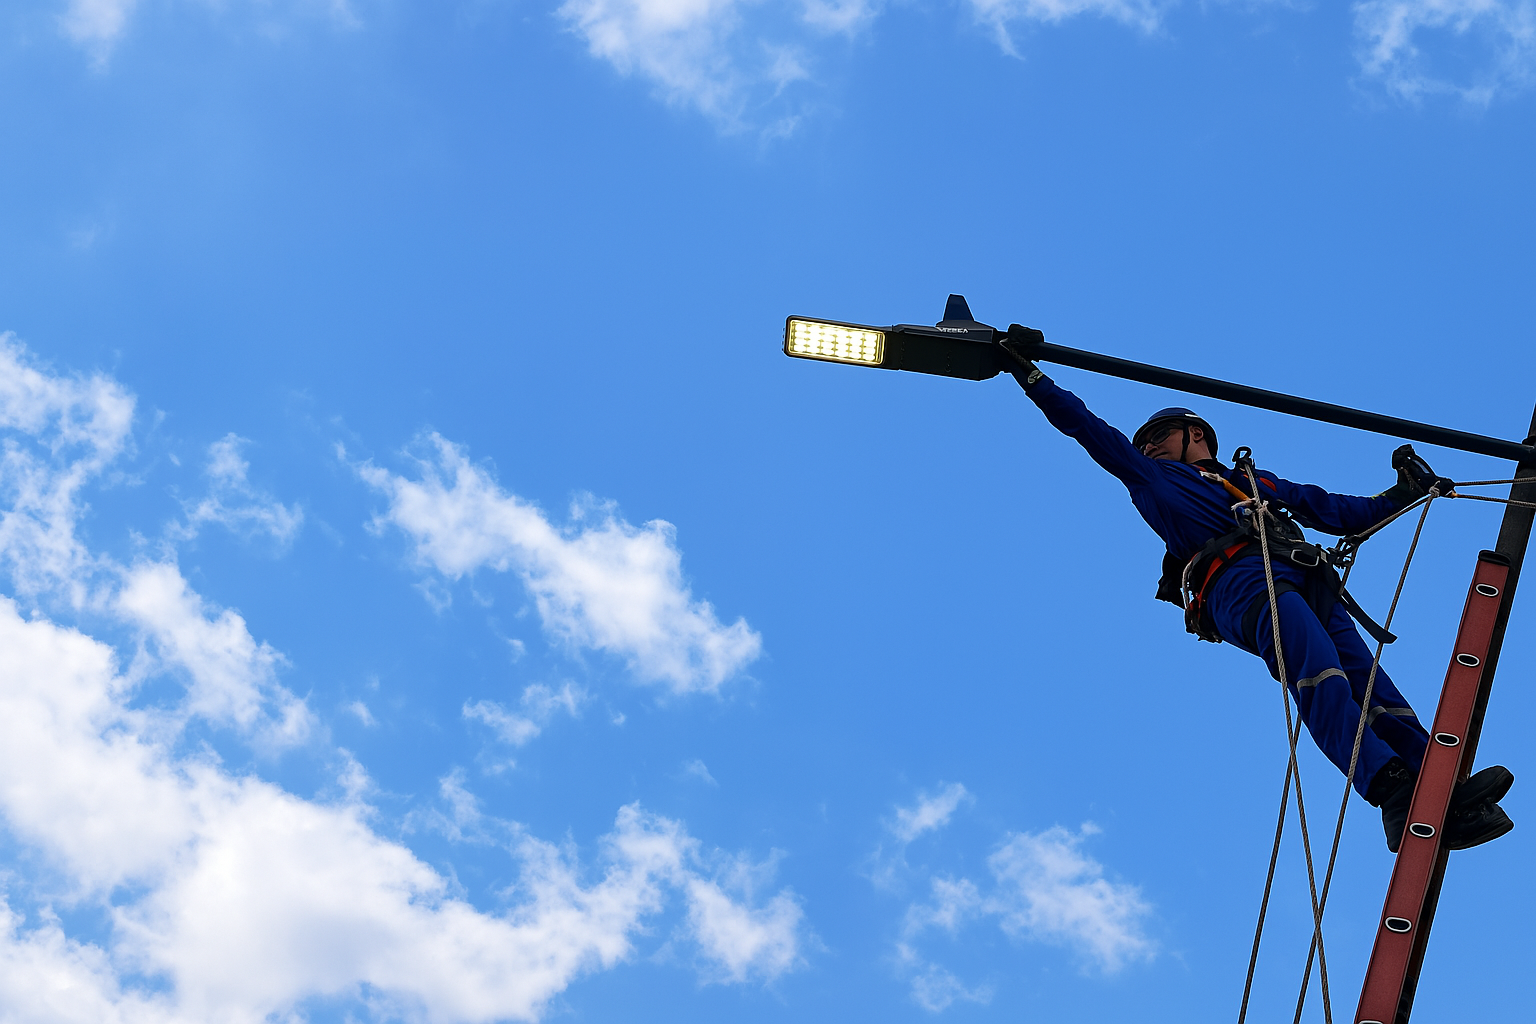
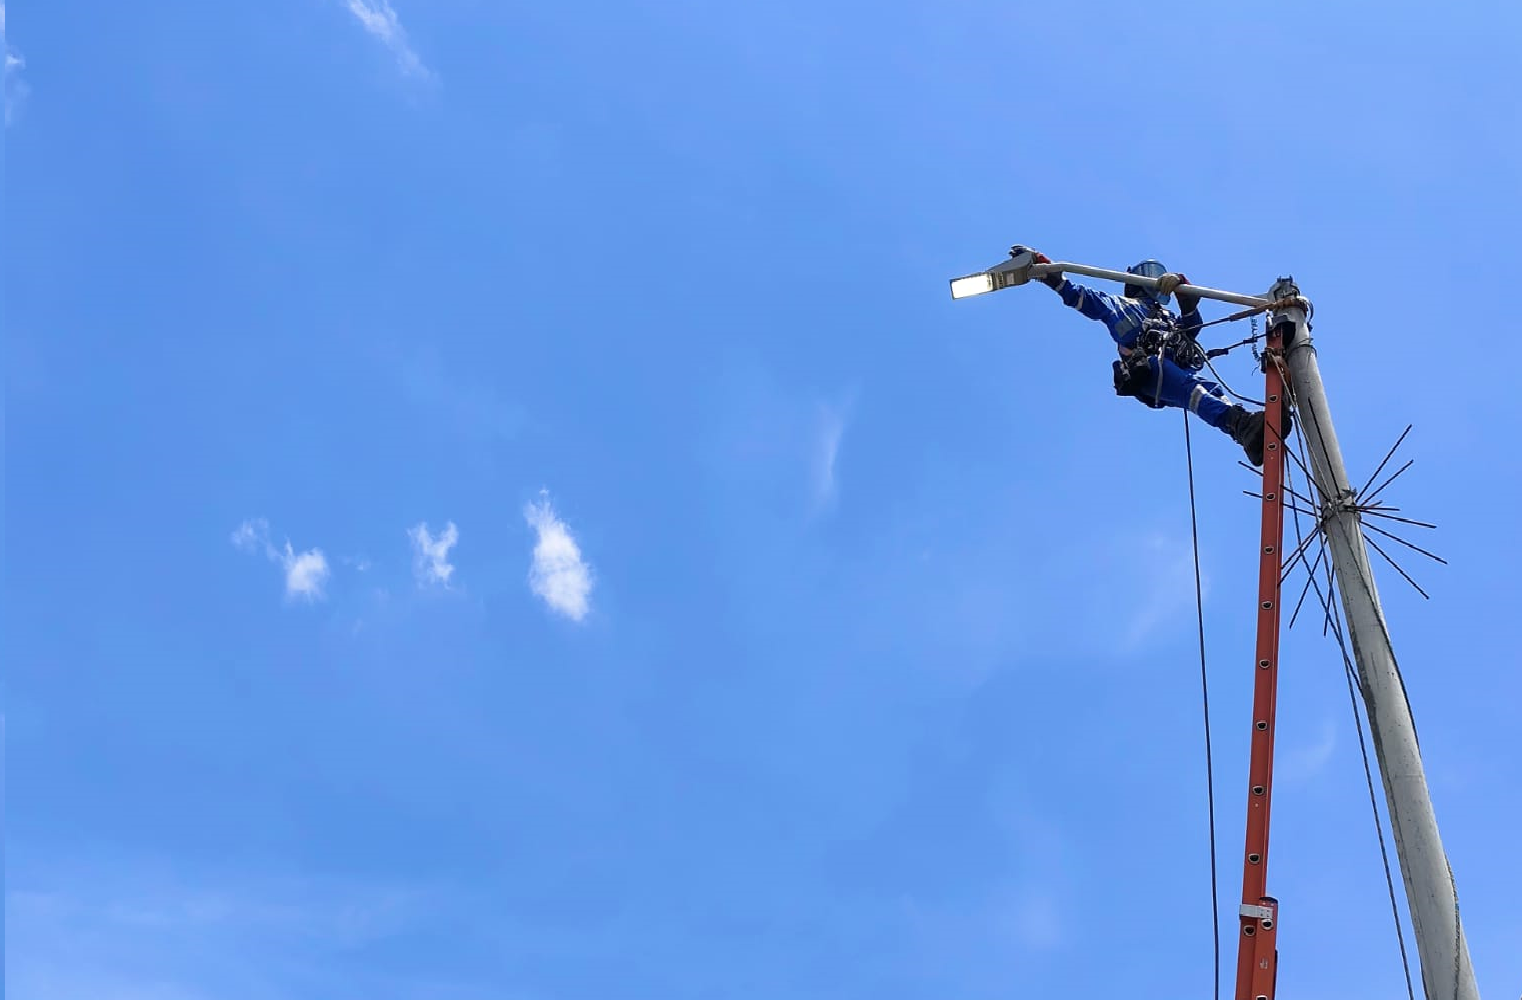
proyecto funcional envio y recepcion de datos, eliminar, datos integracion funcionales

diff --git a/src/templates/solicitud_atendida.html b/src/templates/solicitud_atendida.html
@@ -39,17 +39,14 @@
      <br>
      <br>
      <br>
-     <br>
-     <br>
-   
-          
+               
      
 
-    <h1 style= "color:rgb(243, 190, 46)">
-        <p align="center">TRABAJAMOS PARA TÍ </p>
+    <h1 style= "color:rgb(2, 105, 54)">
+        <p align="center">TRABAJAMOS PARA TÍ </p> 
     </h1>
-    <h1 style= "color:rgb(243, 190, 46)" >           
-        <p align="center">NO TE PREOCUPES, TU SOLICITUD YA FUE ATENDIDA</p>
+    <h1 style= "color:rgb(2, 105, 54)" >           
+        <p align="center">NO TE PREOCUPES, TU SOLICITUD YA FUE ATENDIDA</p> 
     </h1>     
 
 </body>
